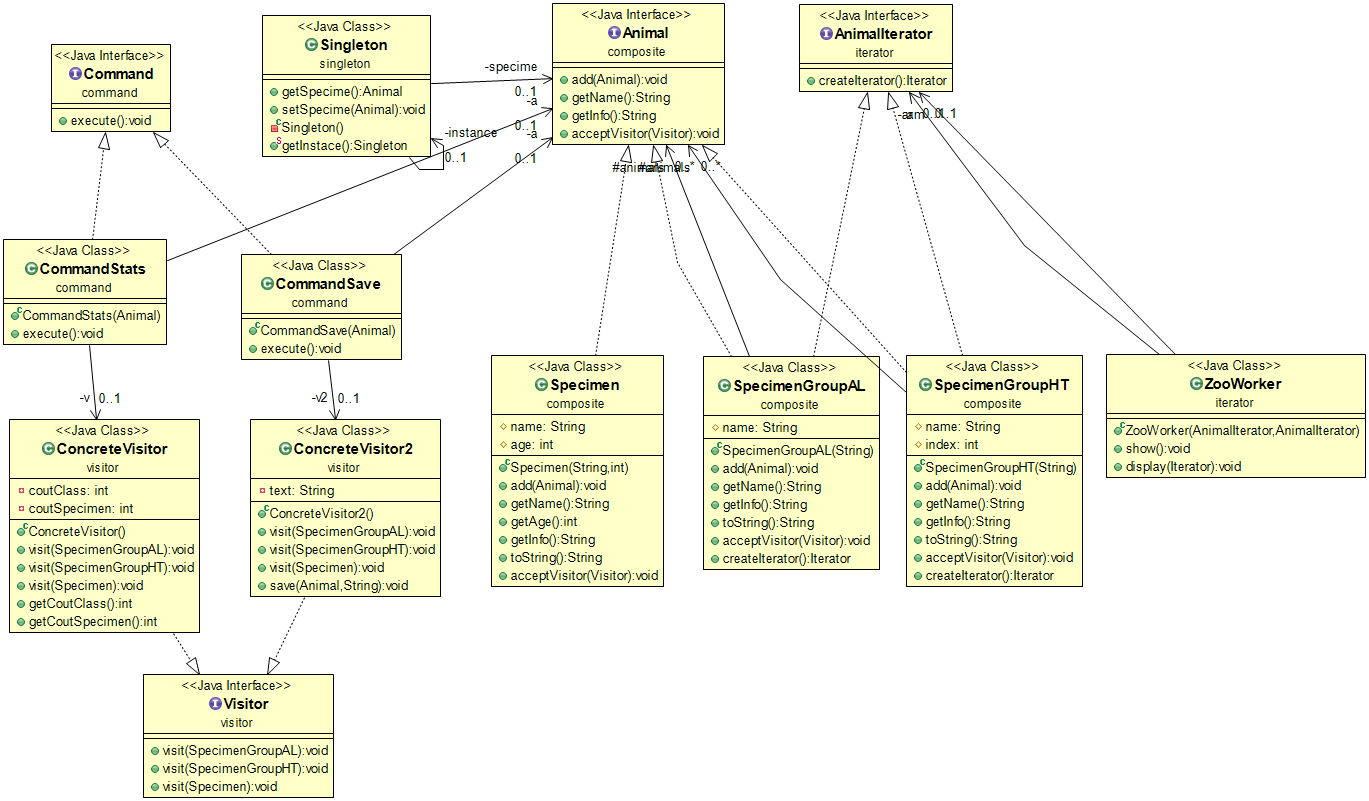
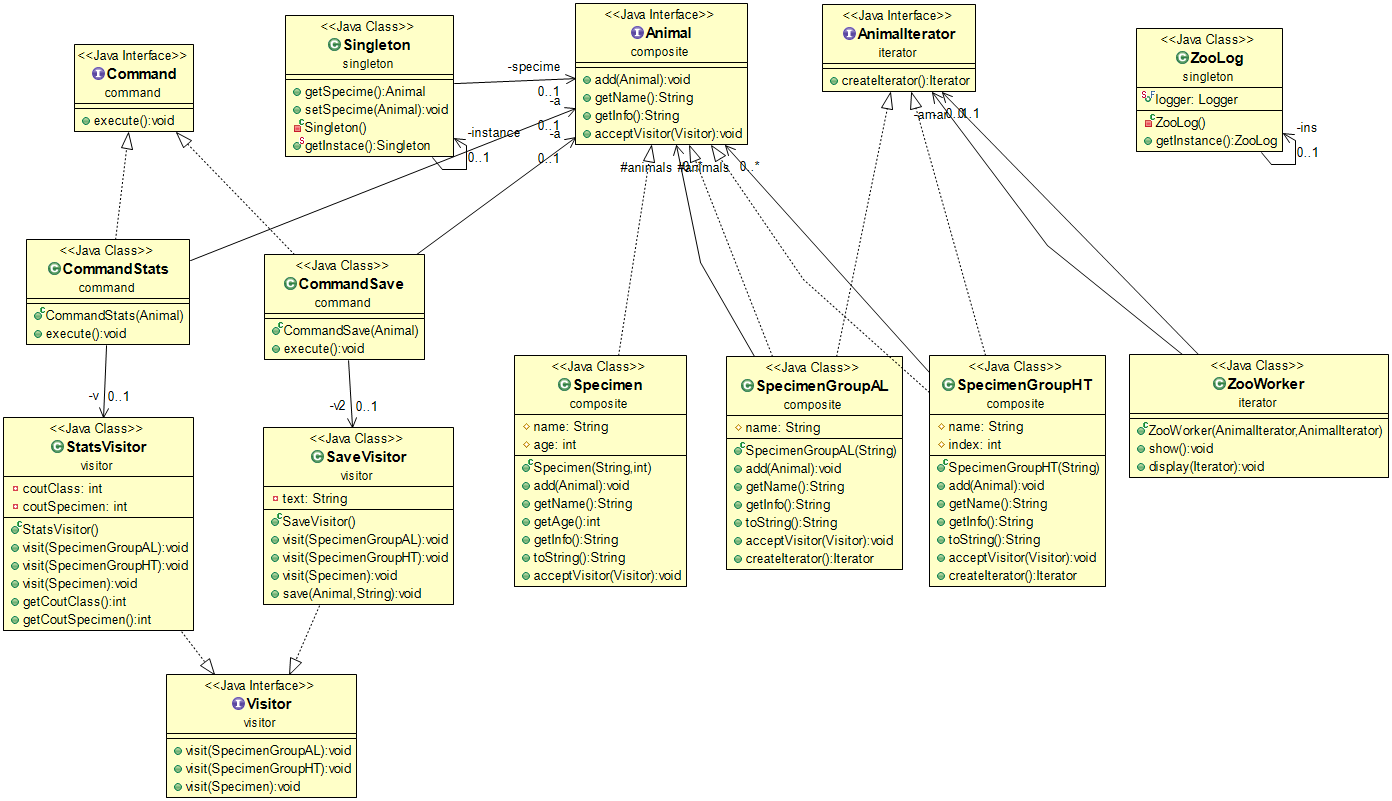
log

diff --git a/src/visitor/SaveVisitor.java b/src/visitor/SaveVisitor.java
@@ -8,11 +8,16 @@ import composite.Animal;
 import composite.Specimen;
 import composite.SpecimenGroupAL;
 import composite.SpecimenGroupHT;
+import singleton.ZooLog;
 
-public class ConcreteVisitor2 implements Visitor{
+public class SaveVisitor implements Visitor{
 	
 	private String text;
 
+	public SaveVisitor () {
+		ZooLog.logger.trace("Save visitor created...");
+	}
+	
 	@Override
 	public void visit(SpecimenGroupAL a) {
 		text += a.getName() + "\n";
@@ -42,7 +47,7 @@ public class ConcreteVisitor2 implements Visitor{
 			writer.close();
 			
 		} catch (FileNotFoundException e) {
-			// TODO Auto-generated catch block
+			ZooLog.logger.error("File not found.");
 			e.printStackTrace();
 		} catch (UnsupportedEncodingException e) {
 			// TODO Auto-generated catch block

diff --git a/src/command/CommandStats.java b/src/command/CommandStats.java
@@ -1,15 +1,18 @@
 package command;
 
 import composite.Animal;
-import visitor.ConcreteVisitor;
+import singleton.ZooLog;
+import visitor.StatsVisitor;
 
 public class CommandStats implements Command{
 	
 	private Animal a;
-	private ConcreteVisitor v = new ConcreteVisitor();
+	private StatsVisitor v ;
 	
 	public CommandStats(Animal a) {
 		this.a = a;
+		ZooLog.logger.trace("Stats command created...");
+		v = new StatsVisitor();
 	}
 
 	@Override
@@ -22,6 +25,7 @@ public class CommandStats implements Command{
 		System.out.println("Specimen: "+v.getCoutSpecimen());
 		System.out.println("Groups: "+v.getCoutClass());
 		
+		ZooLog.logger.trace("Stats command executed...");
 	}
 
 }

diff --git a/src/command/CommandSave.java b/src/command/CommandSave.java
@@ -1,22 +1,25 @@
 package command;
 
 import composite.Animal;
-import visitor.ConcreteVisitor2;
+import singleton.ZooLog;
+import visitor.SaveVisitor;
 
 public class CommandSave implements Command{
 
 	private Animal a;
-	private ConcreteVisitor2 v2 = new ConcreteVisitor2();
+	private SaveVisitor v2 ;
 	
 	public CommandSave(Animal a) {
 		this.a = a;
-		
+		ZooLog.logger.trace("Save command created...");
+		v2 = new SaveVisitor();
 	}
 	
 	@Override
 	public void execute() {
 			
 		v2.save( a,"test.txt");
+		ZooLog.logger.trace("Save command executed...");
 	}
 
 }

diff --git a/src/visitor/StatsVisitor.java b/src/visitor/StatsVisitor.java
@@ -2,14 +2,19 @@ package visitor;
 
 import composite.SpecimenGroupAL;
 import composite.SpecimenGroupHT;
+import singleton.ZooLog;
 import composite.Specimen;
 
 
-public class ConcreteVisitor implements Visitor{
+public class StatsVisitor implements Visitor{
 
 	private int coutClass = 0;
 	
 	private int coutSpecimen = 0;
+	
+	public StatsVisitor() {
+		ZooLog.logger.trace("Stats visitor created...");
+	}
 	
 	@Override
 	public void visit(SpecimenGroupAL a) {

diff --git a/src/singleton/ZooLog.java b/src/singleton/ZooLog.java
@@ -1,0 +1,18 @@
+package singleton;
+
+import org.apache.logging.log4j.LogManager;
+import org.apache.logging.log4j.Logger;
+
+
+
+public class ZooLog {
+
+	private static ZooLog ins = new ZooLog();
+	public static final Logger logger = LogManager.getLogger(ZooLog.class);
+	
+	private ZooLog() {}
+	
+	public ZooLog getInstance() {
+		return ins;
+	}
+}

diff --git a/src/composite/NotMain.java b/src/composite/NotMain.java
@@ -1,7 +1,6 @@
 package composite;
 
 import singleton.Singleton;
-
 import iterator.ZooWorker;
 import iterator.AnimalIterator;
 
